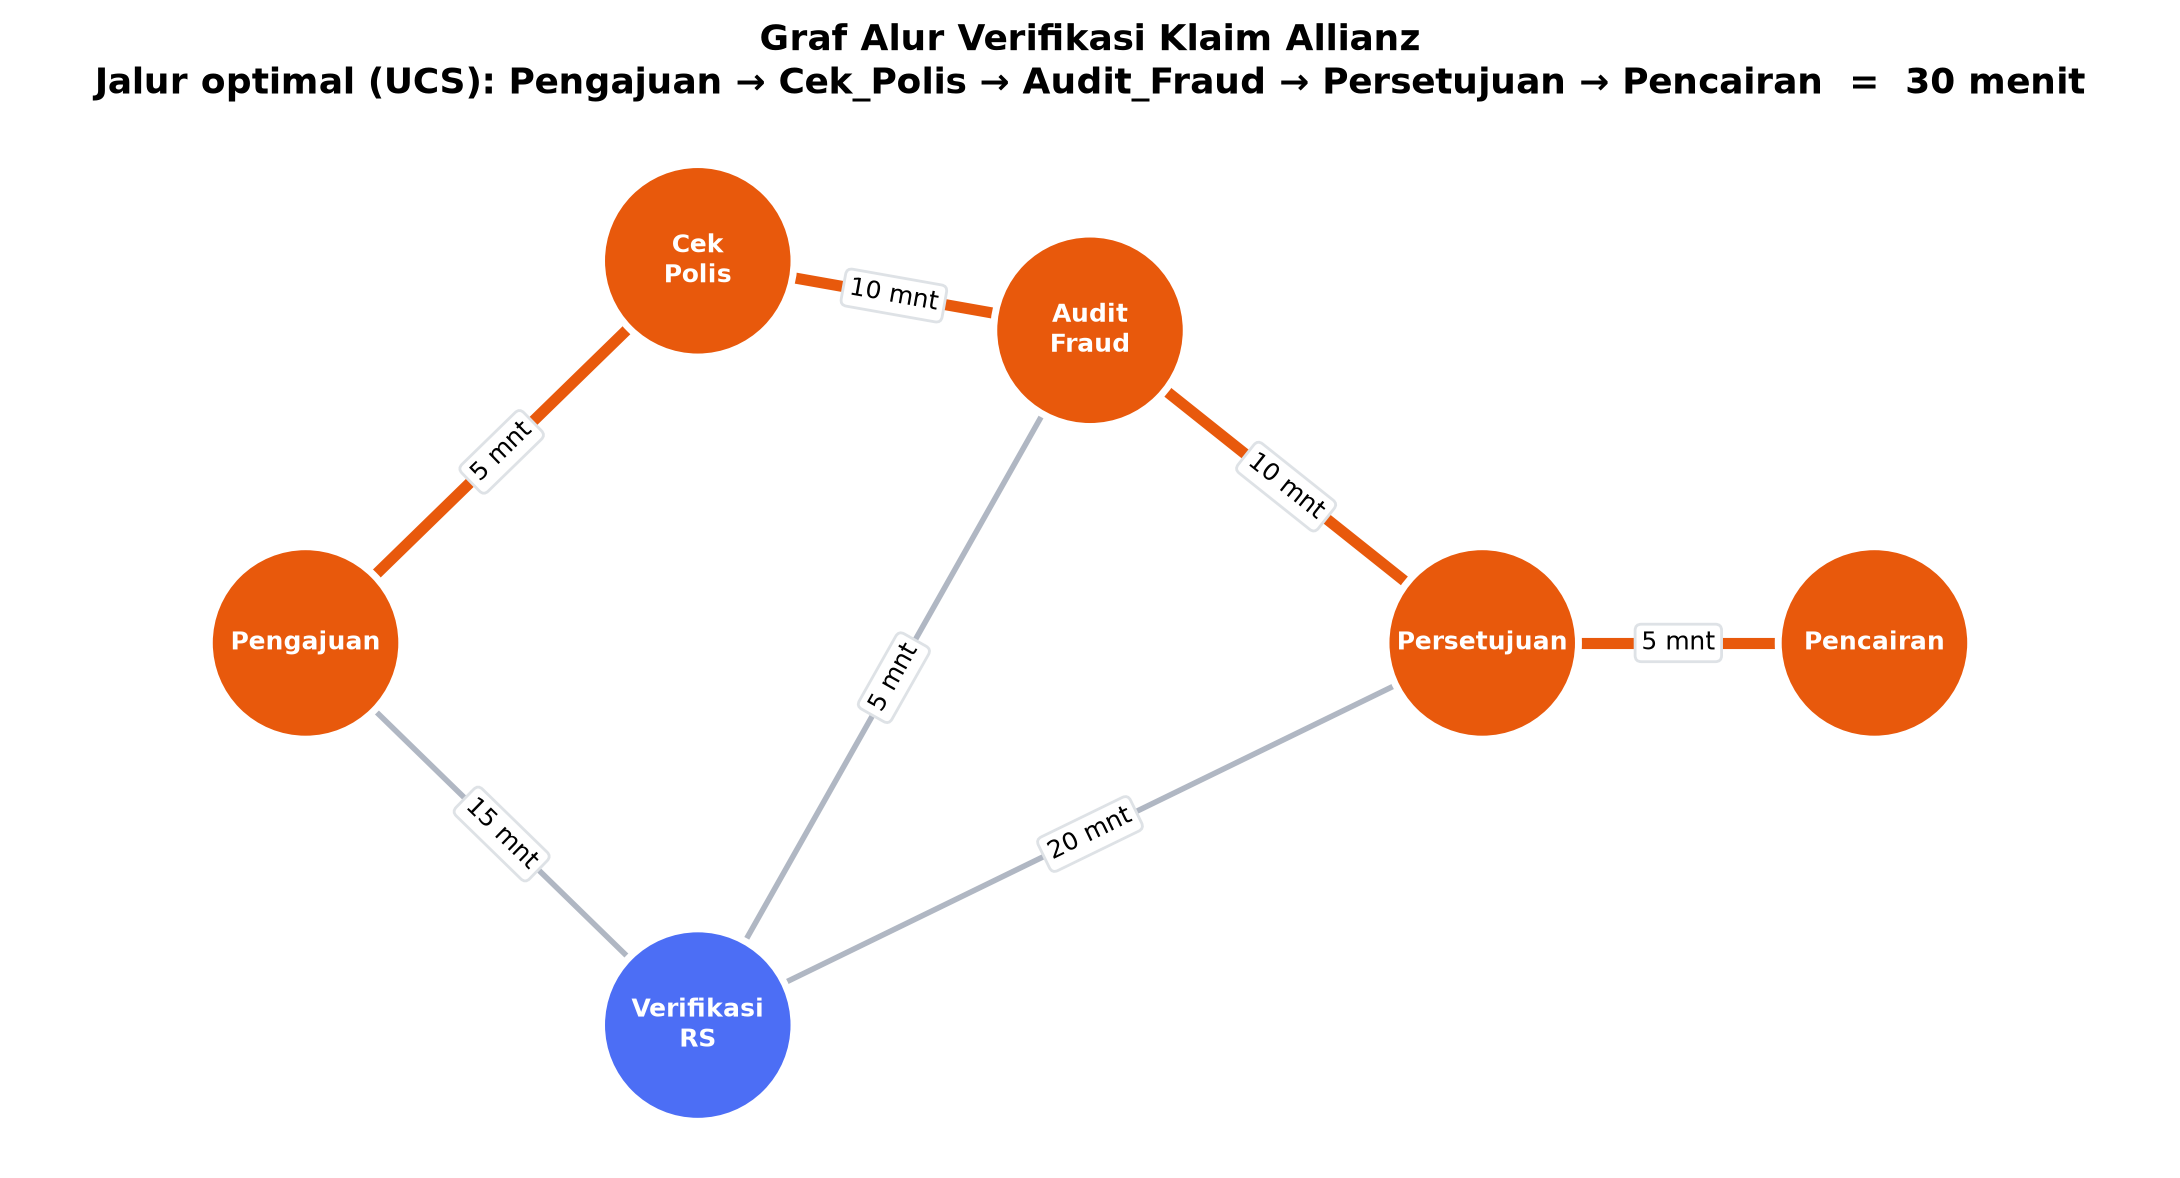
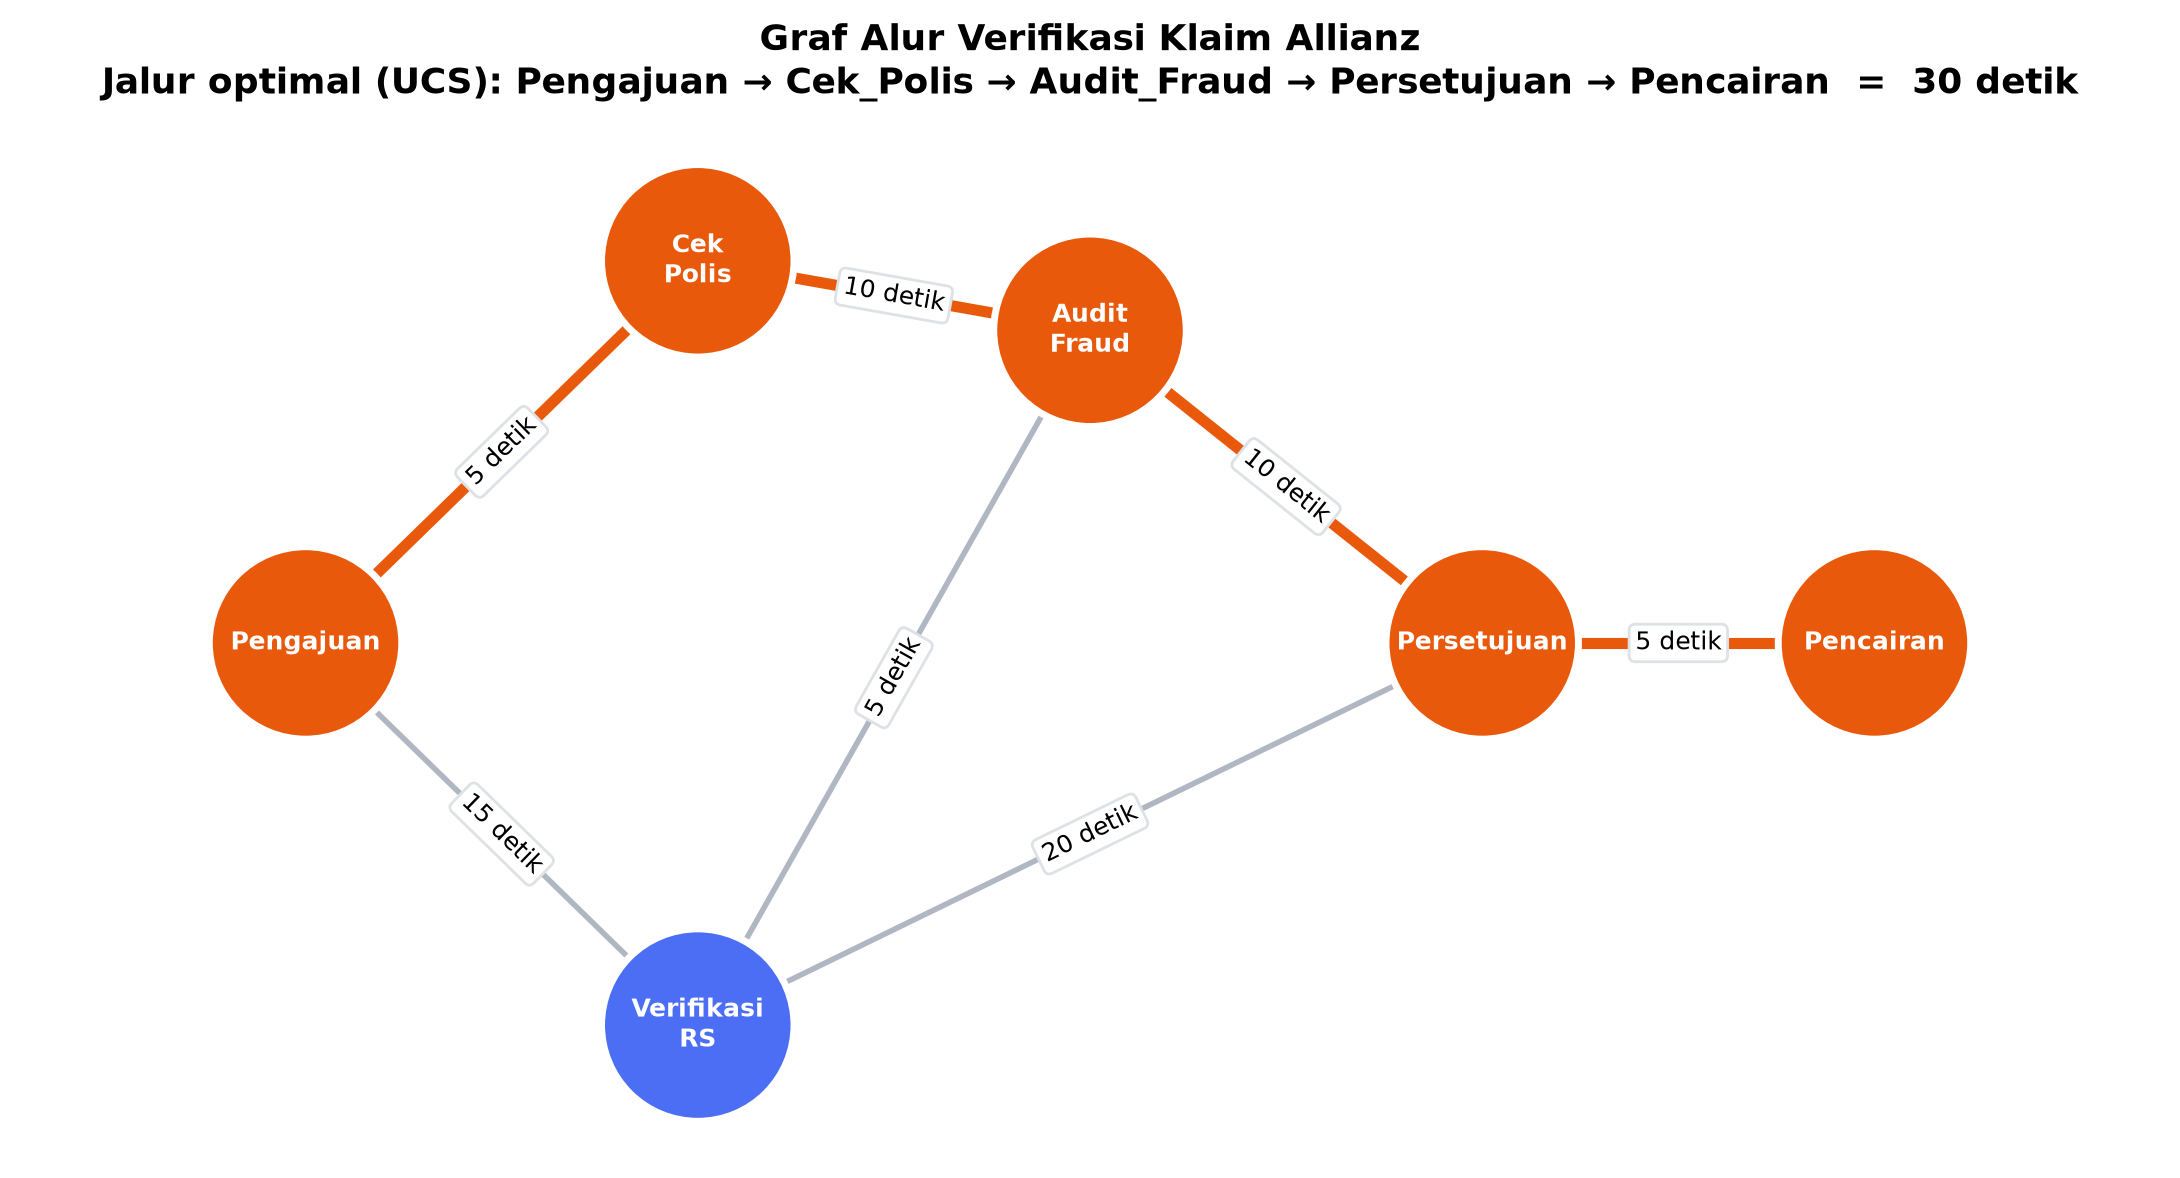
donee

diff --git a/visualisasi_graph.py b/visualisasi_graph.py
@@ -1,23 +1,26 @@
 """
 Visualisasi graf alur verifikasi klaim Allianz.
 Menghasilkan file graph_alianz.png dengan jalur optimal (hasil UCS) disorot.
-
 """
 
 import matplotlib
 matplotlib.use("Agg")
+
 import matplotlib.pyplot as plt
 import networkx as nx
 
 from Alianz import graph_allianz, ucs_claim_verification
 
+
 # --- Bangun graf -------------------------------------------------------------
 G = nx.Graph()
+
 for node, tetangga in graph_allianz.items():
     for n, bobot in tetangga.items():
         G.add_edge(node, n, weight=bobot)
 
-# Tata letak manual supaya alur terbaca dari kiri ke kanan
+
+# --- Tata letak manual supaya alur terbaca dari kiri ke kanan ---------------
 pos = {
     "Pengajuan":     (0.0,  0.0),
     "Cek_Polis":     (1.3,  1.1),
@@ -27,39 +30,135 @@ pos = {
     "Pencairan":     (5.2,  0.0),
 }
 
+
 # --- Jalur optimal -----------------------------------------------------------
-total, jalur = ucs_claim_verification("Pengajuan", "Pencairan", graph_allianz)
-edge_optimal = [(jalur[i], jalur[i + 1]) for i in range(len(jalur) - 1)]
-edge_optimal_set = {frozenset(e) for e in edge_optimal}
-edge_biasa = [e for e in G.edges() if frozenset(e) not in edge_optimal_set]
+total, jalur = ucs_claim_verification(
+    "Pengajuan",
+    "Pencairan",
+    graph_allianz
+)
+
+edge_optimal = [
+    (jalur[i], jalur[i + 1])
+    for i in range(len(jalur) - 1)
+]
+
+edge_optimal_set = {
+    frozenset(e)
+    for e in edge_optimal
+}
+
+edge_biasa = [
+    e for e in G.edges()
+    if frozenset(e) not in edge_optimal_set
+]
+
 
 # --- Gambar ------------------------------------------------------------------
 fig, ax = plt.subplots(figsize=(11, 6))
 
-nx.draw_networkx_edges(G, pos, edgelist=edge_biasa, width=2,
-                       edge_color="#b0b7c3", ax=ax)
-nx.draw_networkx_edges(G, pos, edgelist=edge_optimal, width=4,
-                       edge_color="#e8590c", ax=ax)
 
-warna_node = ["#e8590c" if n in jalur else "#4c6ef5" for n in G.nodes()]
-nx.draw_networkx_nodes(G, pos, node_size=4800, node_color=warna_node,
-                       edgecolors="white", linewidths=2.5, ax=ax)
-label_node = {n: n.replace("_", "\n") for n in G.nodes()}
-nx.draw_networkx_labels(G, pos, labels=label_node, font_size=9,
-                        font_color="white", font_weight="bold", ax=ax)
+# Edge biasa
+nx.draw_networkx_edges(
+    G,
+    pos,
+    edgelist=edge_biasa,
+    width=2,
+    edge_color="#b0b7c3",
+    ax=ax
+)
 
-label_bobot = {(u, v): f"{d['weight']} mnt" for u, v, d in G.edges(data=True)}
-nx.draw_networkx_edge_labels(G, pos, edge_labels=label_bobot, font_size=9,
-                             bbox=dict(boxstyle="round,pad=0.25", fc="white",
-                                       ec="#dee2e6"), ax=ax)
 
-jalur_teks = " \u2192 ".join(jalur)
-ax.set_title("Graf Alur Verifikasi Klaim Allianz\n"
-             f"Jalur optimal (UCS): {jalur_teks}  =  {total} menit",
-             fontsize=13, fontweight="bold", pad=18)
+# Edge jalur optimal
+nx.draw_networkx_edges(
+    G,
+    pos,
+    edgelist=edge_optimal,
+    width=4,
+    edge_color="#e8590c",
+    ax=ax
+)
+
+
+# Warna node
+warna_node = [
+    "#e8590c" if n in jalur else "#4c6ef5"
+    for n in G.nodes()
+]
+
+nx.draw_networkx_nodes(
+    G,
+    pos,
+    node_size=4800,
+    node_color=warna_node,
+    edgecolors="white",
+    linewidths=2.5,
+    ax=ax
+)
+
+
+# Label node
+label_node = {
+    n: n.replace("_", "\n")
+    for n in G.nodes()
+}
+
+nx.draw_networkx_labels(
+    G,
+    pos,
+    labels=label_node,
+    font_size=9,
+    font_color="white",
+    font_weight="bold",
+    ax=ax
+)
+
+
+# Label bobot dalam DETIK
+label_bobot = {
+    (u, v): f"{d['weight']} detik"
+    for u, v, d in G.edges(data=True)
+}
+
+nx.draw_networkx_edge_labels(
+    G,
+    pos,
+    edge_labels=label_bobot,
+    font_size=9,
+    bbox=dict(
+        boxstyle="round,pad=0.25",
+        fc="white",
+        ec="#dee2e6"
+    ),
+    ax=ax
+)
+
+
+# --- Judul -------------------------------------------------------------------
+jalur_teks = " → ".join(jalur)
+
+ax.set_title(
+    "Graf Alur Verifikasi Klaim Allianz\n"
+    f"Jalur optimal (UCS): {jalur_teks}  =  {total} detik",
+    fontsize=13,
+    fontweight="bold",
+    pad=18
+)
+
+
+# --- Tampilan ----------------------------------------------------------------
 ax.axis("off")
 ax.margins(0.12)
+
 plt.tight_layout()
-plt.savefig("graph_alianz.png", dpi=200, bbox_inches="tight",
-            facecolor="white")
+
+
+# --- Simpan gambar -----------------------------------------------------------
+plt.savefig(
+    "graph_alianz.png",
+    dpi=200,
+    bbox_inches="tight",
+    facecolor="white"
+)
+
 print("Tersimpan: graph_alianz.png")
